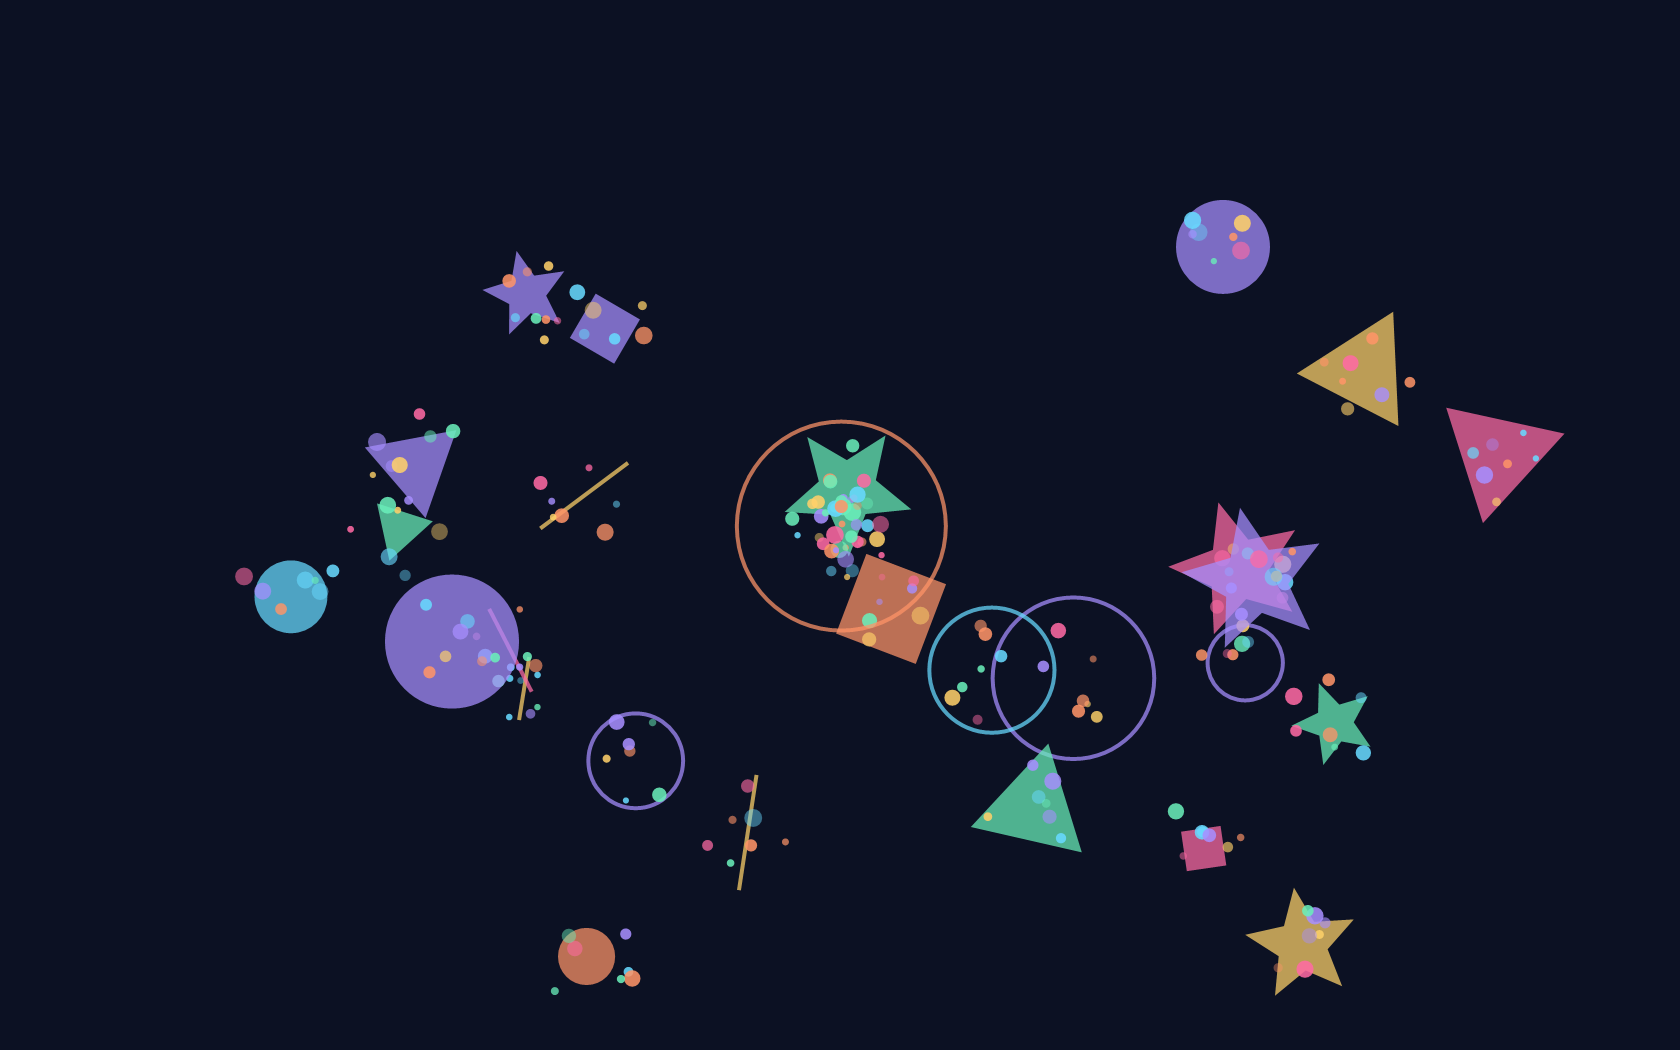
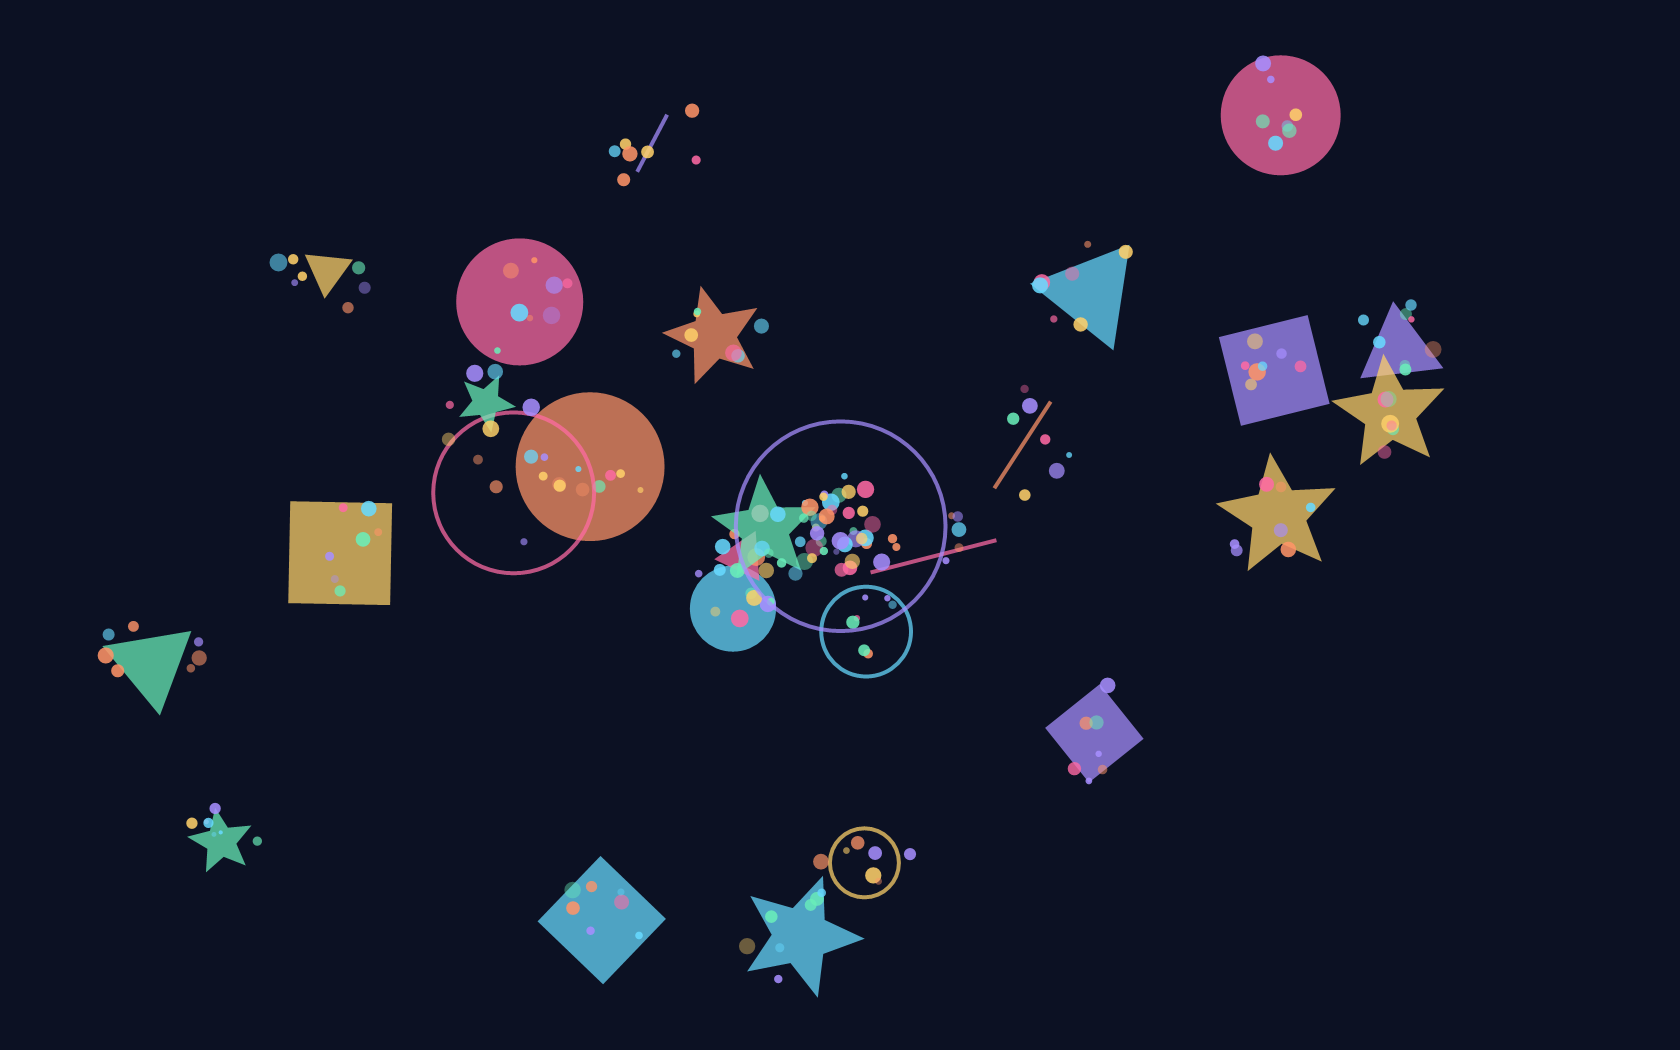
Updated settings screenshots after desktop composition

diff --git a/tests/Program.cs b/tests/Program.cs
@@ -918,10 +918,12 @@ internal static class Program
     {
         form.Activate();
         form.Refresh();
+        Thread.Sleep(100); // Let the desktop compositor present translated and repainted controls.
         Check(NativeMethods.GetForegroundWindow() == form.Handle, "Screenshots must capture the foreground application window.");
         using var bitmap = new Bitmap(form.Width, form.Height);
         using (var graphics = Graphics.FromImage(bitmap))
             graphics.CopyFromScreen(form.Location, Point.Empty, bitmap.Size);
+        bitmap.Save(path, ImageFormat.Png);
         if (form is SettingsForm)
         {
             var controls = new Stack<Control>();
@@ -930,17 +932,21 @@ internal static class Program
             {
                 foreach (Control child in control.Controls) controls.Push(child);
                 if (control is not SettingsToggle toggle || !toggle.Visible) continue;
+                bool hiddenPage = false;
+                for (Control? parent = toggle.Parent; parent is not null; parent = parent.Parent)
+                    if (parent is TabPage page && page.Parent is TabControl tabs && tabs.SelectedTab != page)
+                        hiddenPage = true;
+                if (hiddenPage) continue;
                 var origin = toggle.PointToScreen(Point.Empty) - (Size)form.Location;
                 for (int x = 40 * toggle.DeviceDpi / 96; x < toggle.Width - 2; x += 16)
                 {
                     var point = new Point(origin.X + x, origin.Y);
                     if (new Rectangle(Point.Empty, bitmap.Size).Contains(point))
                         Check(bitmap.GetPixel(point.X, point.Y).ToArgb() == toggle.BackColor.ToArgb(),
-                            "Live checkbox backgrounds must not contain pixels left by other controls.");
+                            $"Live checkbox background differs: {toggle.Text}, pixel {point}, color {bitmap.GetPixel(point.X, point.Y)}.");
                 }
             }
         }
-        bitmap.Save(path, ImageFormat.Png);
     }
 
     private static void TestFrameClock()
